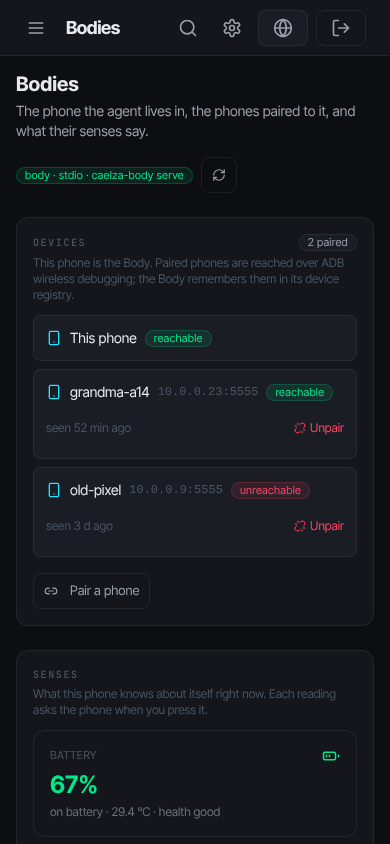
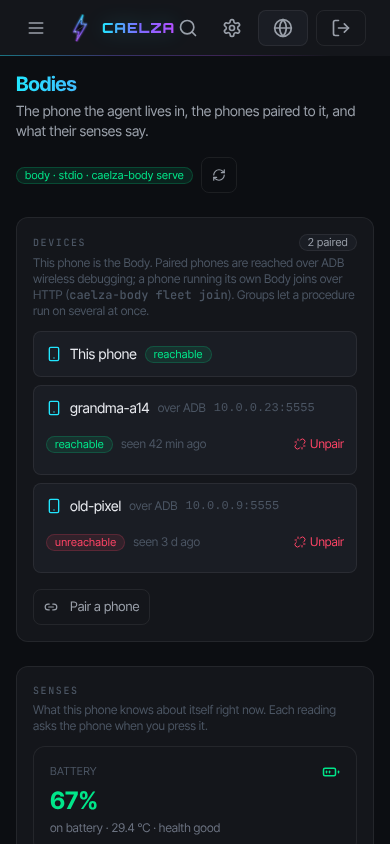
The brand pass: every dashboard page wears the mark, the gradient and the space
The theme map gave the dashboard our palette, but black and cyan read as
any dark console (the screenshots the owner looked at "still looked like
zeroclaw's"). This makes every page unmistakably ours without touching the
pages' markup.

CSS in the overlay's caelza-brand.css: Space with the two nebula glows
behind every page (`.cz-space`; the glow colours are theme variables that
runtime/lib/dashboard_theme.py sets for caelza-dark and caelza-light, so
another theme from the settings page gets a plain base), page titles in the
mark gradient (`.cz-page-title`), the primary action filled cyan → violet
with the glow on hover (`.cz-btn-gradient`, and `.btn-electric` so the
pairing screen and the error boundary follow), cards with a hairline of
light on their top edge, a hairline of the mark gradient under the top bar.

Patch 0010 carries the four hunks CSS cannot: the top bar draws the mark
and the wordmark on every width (the page title beside them on a desktop,
the page's own header carries it on a phone), the layout root takes
`.cz-space`, PageHeader's title takes `.cz-page-title`, Button's primary
variant takes `.cz-btn-gradient`.

The reference screens in docs/design/screens/390 are retaken through
runtime/tools/phone-shots against a gateway serving the rebuilt dashboard:
no sideways scroll, the same offender and small-target counts as before.
tests/test_brand_pass.py pins the patch's files and hunks, the CSS hooks,
[…]

diff --git a/runtime/overlay/web/src/caelza-brand.css b/runtime/overlay/web/src/caelza-brand.css
@@ -109,6 +109,67 @@
   }
 }
 
+/* ---- The brand pass (vision M4 phase 4b): every dashboard page ---------------
+   The theme map already gives the dashboard our palette; these make it
+   unmistakably ours without touching the pages' markup: Space with the nebula
+   glows behind every page, the mark and the wordmark in the top bar, page
+   titles in the mark gradient, primary actions filled cyan → violet, cards
+   with a hairline of light on their top edge. The glow colours come from the
+   theme (runtime/lib/dashboard_theme.py sets --cz-glow-1/2 for caelza-dark and
+   caelza-light), so another theme from the settings page gets a plain base. */
+
+.cz-space {
+  background-color: var(--pc-bg-base);
+  background-image:
+    radial-gradient(60% 40% at 12% 0%, var(--cz-glow-1, transparent), transparent 70%),
+    radial-gradient(50% 35% at 90% 100%, var(--cz-glow-2, transparent), transparent 70%);
+  background-attachment: fixed;
+  background-repeat: no-repeat;
+}
+
+/* Page titles: the mark gradient as the fill, one glowing element per view. */
+.cz-page-title {
+  background: var(--cz-gradient-mark);
+  -webkit-background-clip: text;
+  background-clip: text;
+  color: transparent;
+  -webkit-text-fill-color: transparent;
+  letter-spacing: -0.02em;
+}
+.cz-page-title::selection {
+  -webkit-text-fill-color: var(--pc-text-primary);
+}
+
+/* Primary actions: cyan → violet, a dark face, the glow on hover. */
+.cz-btn-gradient,
+main .btn-electric,
+.btn-electric {
+  background: linear-gradient(90deg, var(--pc-accent) 0%, #7b6bff 100%);
+  color: #050310;
+  border-color: transparent;
+}
+.cz-btn-gradient:hover:not(:disabled),
+.btn-electric:hover:not(:disabled) {
+  filter: brightness(1.08);
+  box-shadow: 0 6px 22px rgba(var(--pc-accent-rgb), 0.28);
+}
+.cz-btn-gradient:active:not(:disabled) {
+  filter: brightness(0.96);
+}
+
+/* Cards: a hairline of light on the top edge and a soft drop, so the
+   surfaces sit on Space instead of merging with it. */
+main .card,
+main .surface-panel {
+  box-shadow: inset 0 1px 0 rgba(255, 255, 255, 0.05), 0 10px 30px rgba(0, 0, 0, 0.25);
+}
+
+/* The top bar: a hairline of the mark gradient under it. */
+.cz-topbar {
+  border-bottom: 1px solid transparent;
+  border-image: linear-gradient(90deg, rgba(34, 230, 255, 0.45), rgba(123, 107, 255, 0.35), rgba(180, 79, 255, 0.25), transparent 85%) 1;
+}
+
 /* ---- The simplified setup (/setup, vision M4 phase 4a) ----------------------
    Cael's screens in our colours: the space backdrop with the nebula glows, the
    title in the mark's gradient, Cael's bubble, 52 px buttons, the scroll

diff --git a/tests/test_brand_pass.py b/tests/test_brand_pass.py
@@ -1,0 +1,73 @@
+"""The brand pass over every dashboard page (vision M4 phase 4b).
+
+The theme map gives the dashboard our palette; the pass makes it ours: the
+mark and the wordmark in the top bar, page titles in the mark gradient, the
+primary action filled cyan → violet, Space with the nebula glows behind every
+page. Most of it is CSS in the overlay's brand stylesheet; patch 0010 carries
+the four hunks CSS cannot (the top bar, the layout root, PageHeader, Button).
+"""
+from __future__ import annotations
+
+import json
+import re
+import sys
+import tomllib
+from pathlib import Path
+
+REPO_ROOT = Path(__file__).resolve().parents[1]
+PATCH = (REPO_ROOT / "runtime" / "patches" / "0010-brand-pass.patch").read_text()
+BRAND_CSS = (REPO_ROOT / "runtime" / "overlay" / "web" / "src" / "caelza-brand.css").read_text()
+MANIFEST = tomllib.loads((REPO_ROOT / "bundle" / "manifest.toml").read_text())
+TOKENS = json.loads((REPO_ROOT / "brand" / "tokens.json").read_text())
+
+sys.path.insert(0, str(REPO_ROOT / "runtime" / "lib"))
+import dashboard_theme  # noqa: E402
+
+
+def test_patch_touches_only_the_files_it_claims():
+    touched = sorted({line.split()[1][2:] for line in PATCH.splitlines() if line.startswith("+++ b/")})
+    assert touched == [
+        "web/src/components/layout/Header.tsx",
+        "web/src/components/layout/Layout.tsx",
+        "web/src/components/ui/Button.tsx",
+        "web/src/components/ui/PageHeader.tsx",
+    ]
+
+
+def test_the_top_bar_wears_the_mark_and_the_wordmark_on_every_width():
+    assert "+import { Mark, Wordmark } from '@/components/brand/CaelzaLockup';" in PATCH
+    assert "+            <Mark src={`${basePath}/_app/logo.png`} size={28} />" in PATCH
+    assert "+            <Wordmark size=\"sm\" />" in PATCH
+    # The page title keeps its place on a desktop; the page's own header carries it on a phone.
+    assert '+          <h1 className="hidden md:block' in PATCH
+    assert '-          <h1 className="h-9 leading-9 text-lg font-semibold tracking-tight truncate min-w-0" style={{ color: \'var(--pc-text-primary)\' }}>{pageTitle}</h1>' in PATCH
+    assert '+      <header className="cz-topbar' in PATCH and ".cz-topbar {" in BRAND_CSS
+
+
+def test_titles_buttons_and_the_backdrop_take_the_brand():
+    assert '+        <h1 className="cz-page-title' in PATCH and ".cz-page-title {" in BRAND_CSS
+    assert "+    'cz-btn-gradient bg-pc-accent border-transparent" in PATCH and ".cz-btn-gradient," in BRAND_CSS
+    assert '+    <div className="cz-space min-h-screen bg-pc-base text-pc-text">' in PATCH and ".cz-space {" in BRAND_CSS
+    # The gradient is the mark's (cyan → violet → purple), not the parent's.
+    assert "background: var(--cz-gradient-mark);" in BRAND_CSS.split(".cz-page-title {")[1].split("}")[0]
+    # The glows fall back to nothing, so a theme without them gets a plain base.
+    assert "var(--cz-glow-1, transparent)" in BRAND_CSS and "var(--cz-glow-2, transparent)" in BRAND_CSS
+    # The pairing screen's and the error boundary's primary button follow.
+    assert re.search(r"^\.btn-electric \{", BRAND_CSS, re.M)
+
+
+def test_the_theme_carries_the_glow_colours():
+    dark, light = dashboard_theme.theme_entries(TOKENS)
+    purple = TOKENS["color"]["purple"]
+    r, g, b = int(purple[1:3], 16), int(purple[3:5], 16), int(purple[5:7], 16)
+    assert dark["vars"]["--cz-glow-1"] == f"rgba({r},{g},{b},0.22)"
+    assert dark["vars"]["--cz-glow-2"].startswith("rgba(34,230,255,")
+    # Faint on the light base: a tint, not a glow.
+    assert float(light["vars"]["--cz-glow-1"].rsplit(",", 1)[1].rstrip(")")) < 0.1
+    assert float(light["vars"]["--cz-glow-2"].rsplit(",", 1)[1].rstrip(")")) < 0.1
+
+
+def test_manifest_points_at_the_pass():
+    rt = MANIFEST["components"]["runtime"]
+    assert rt["brand_pass_patch"] == "runtime/patches/0010-brand-pass.patch"
+    assert (REPO_ROOT / rt["brand_pass_patch"]).is_file()

diff --git a/runtime/lib/dashboard_theme.py b/runtime/lib/dashboard_theme.py
@@ -62,6 +62,10 @@ def theme_entries(tokens: dict) -> list[dict]:
             "--pc-accent-dim": _rgba(c["primary"], 0.3),
             "--pc-accent-glow": _rgba(c["primary"], 0.1),
             "--pc-accent-rgb": c["primary_rgb"].replace(" ", ""),
+            # The nebula glows behind every page (.cz-space in caelza-brand.css):
+            # purple at the top left, cyan at the bottom right, as the hero has them.
+            "--cz-glow-1": _rgba(c["purple"], 0.22),
+            "--cz-glow-2": _rgba(c["primary"], 0.14),
         },
     }
     lt = {
@@ -94,6 +98,9 @@ def theme_entries(tokens: dict) -> list[dict]:
             "--pc-accent-dim": _rgba(light["primary"], 0.3),
             "--pc-accent-glow": _rgba(light["primary"], 0.1),
             "--pc-accent-rgb": light["primary_rgb"].replace(" ", ""),
+            # Faint on the light base: the tint, not the glow.
+            "--cz-glow-1": _rgba(c["purple"], 0.07),
+            "--cz-glow-2": _rgba(light["primary"], 0.06),
         },
     }
     return [dark, lt]

diff --git a/tests/test_forge.py b/tests/test_forge.py
@@ -188,7 +188,10 @@ def test_runtime_update_needs_a_reason_starts_detached_and_refuses_a_second(body
     monkeypatch.setattr(rt.subprocess, "Popen", fake_popen)
     out = call("runtime_update", reason="v0.1.1 is out; the owner approved", tag="v0.1.1")
     assert out["started"] is True and out["pid"] == os.getpid() and out["tag"] == "v0.1.1" and out["current"] is None
-    argv, kw = spawned[0]
+    # The device tools' self-connect thread (device.py, `caelza-body-adb-self`) may
+    # spawn its `adb connect` through the same patched Popen first; the update's
+    # own spawn is the one naming the server module.
+    argv, kw = next((a, k) for a, k in spawned if "caelza_body.mcp_server" in a)
     assert argv[1:] == ["-m", "caelza_body.mcp_server", "runtime", "update", "--home", str(home), "--tag", "v0.1.1"]
     assert kw["start_new_session"] is True and kw["stdin"] is subprocess.DEVNULL and kw["cwd"] == str(home)
     assert (home / rt.UPDATE_PID).read_text().strip() == str(os.getpid())

diff --git a/docs/design/caelza-vision.md b/docs/design/caelza-vision.md
@@ -409,7 +409,7 @@ Grouped, unranked inside each group. ★ = cheap given what we already have.
 | **M2 Body as MCP** | **Shipped:** `caelza-body` stdio MCP server (`caelza_body/mcp_server.py`) exposing the 35 sensors/device/shell/web/selfmod tools with the Airframe safety semantics, every tool classified read-only / destructive / neutral, images returned as MCP image content; the Runtime wiring + risk profile (`body/caelza-body.example.toml`). **Open:** the Python loop retired per phone once the Runtime runs there | M1 for the retirement |
 | **M3 Mind native** | **Shipped:** `XanimaMemory`, a native `Memory` backend in the Runtime over `xanima-server`'s MCP Streamable HTTP (`runtime/overlay/.../xanima.rs` + `runtime/patches/0001-xanima-memory-backend.patch`: `[memory] backend = "xanima"`, `[storage.xanima.<alias>]` with one token per agent, dashboard picker entry). Per-turn recall → `brain_query`, auto-saved turns → `brain_episode_append`, facts → `brain_write`, forget → `brain_forget`; unit-tested against a canned service and smoke-tested against a live `xanima-server` 0.5.0. Noise filtering is the service's own (`brain_episode_append` drops heartbeat/cron/`NO_REPLY` turns). **Shipped (the standing context and provisioning):** the brain's `brain_turn_context` (identity, active goals, the goals note, the current task) opens the `[Memory context]` block on every turn through a `turn_context_for_agent` hook on the `Memory` trait that the wrappers forward (`runtime/patches/0008-mind-turn-context.patch`), re-rendered each turn and never stored in history so it outlives compaction, its notes acked on the next assistant auto-save; an agent with no token file gets a brain and a token through `brain_provision_agent` with a provision-scoped token (`provision_token_file`), so a new `[agents.<alias>]` needs no manual mint. **Open:** the last-24h digest; `xanima-server` still runs from a checkout (not on npm). | xanima rename shipped |
 | **M1.5 Free local default** | **Shipped:** `scripts/model-setup.sh` + `scripts/model_ladder.py` (RAM × platform → agent and guide tiers, tested): installs llama.cpp (Termux package) or expects Ollama, fetches the DeepSeek R1 GGUFs against pinned sha256s or pulls the Ollama tags, writes the `llamacpp.*` / `ollama.*` provider aliases, points `agents.main` at the local model when it has none, creates Cael (`agents.cael`, profile `guide`: `readonly` + `deny_all_tools`) with `guide/cael.system.md` as his SOUL.md; `runtime/caelza.local-model.example.toml` is the readable wiring. **Shipped (the two doors):** the dashboard's quickstart opens on the two doors (`runtime/overlay/web/src/pages/quickstart/Doors.tsx` + `runtime/patches/0007-quickstart-doors.patch`): free and local stages the ladder's DeepSeek R1 for this device as `<runner>.local` with Cael's honest line, bring your own key is upstream's provider form; the ladder in the overlay is pinned to `scripts/model_ladder.py`. **Shipped (Cael's corpus):** `scripts/cael_corpus.py` chunks the owner-facing pages of the Runtime's book, the README, the Mind and Body READMEs and `guide/FAQ.md` into `guide/corpus.jsonl` (kept current by CI against the staged book) and loads them into Cael's memory through the gateway's `/api/memory`, where the Runtime's per-turn recall finds them; the app loads its bundled copy itself. `knowledge_bundles` stays schema-only at the pin, so memory is the corpus path. **M1.5 is complete.** | M1 for the phone run |
-| **M4 UI phases 1–2** | **Phase 1 + PWA shipped:** the brand faces self-hosted (Inter Tight default, Orbitron wordmark), the lockup in the drawer and on the pairing screen, the parent attribution in the footers, labelled accents; `manifest.webmanifest` + icons + `sw.js` (offline app shell, API never cached) with the gateway's `Service-Worker-Allowed` for the SPA root. **Phase 2a shipped:** the Memory page (`/memory`, in the sidebar's Home group): brains, beliefs, sleep and attention from `brain_stats` / `brain_status`, recall by query with forget, the review queue with accept / reject; the gateway's `/api/mind/*` proxies the brain service with the host-side tokens. **Phase 2b shipped:** the Bodies page (`/bodies`, beside Memory): this phone and the paired phones from `device_list`, battery / whereabouts / notifications from the sensors tools, screen and camera captures as images, the package list, pair and unpair over ADB wireless debugging; the gateway's `/api/bodies/*` keeps one connection to the Body's MCP server (`caelza-body serve`) and makes the tool calls. **Phase 3a shipped:** Home (`/`) as status before chat: Runtime, Mind and Body tiles, "waiting on you" (procedure runs at a gate with approve / deny, memory changes awaiting review), "since you were away" (the Mind's attention, last sleep, open commitments and questions through `/api/mind/digest`; runs and sessions of the last day); the upstream dashboard at `/dashboard` with the old `/?tab=` links forwarded. Procedures (`/procedures`) fronting the SOP engine: waiting, running with stop, the library, finished this week. **Phase 3b shipped:** the phone-first pass, measured at 390 × 844 over every route with `runtime/tools/phone-shots` (sideways scroll, elements past the edge, controls under 32 px): phone rules in the brand stylesheet, patch 0006 for what CSS cannot reach, reference screens in `docs/design/screens/390/`. **Phase 4a shipped:** the simplified setup (`/setup`, `runtime/overlay/web/src/pages/setup/` + patch 0009): Cael's screens in the brand's own colours, one decision each, outside the dashboard chrome. The two doors first; behind "bring your own key" a scroll wheel of the providers most people bring (`bundle/models.json`, the curated catalog `scripts/model_catalog.py check --online` verifies against models.dev; "more" adds every key provider the Runtime lists), a wheel of that provider's models with Cael's picks pinned on top (best, fast and cheap, strongest, free) above the Runtime's live catalog, one box for the key with where to get one, then "Try it"; behind "free and local" the ladder's pick for this device. Risk, runtime, memory and the agent's name take defaults and the whole thing goes through upstream's `/api/quickstart/apply`, so the result is what the full wizard writes; a fresh install lands on `/setup`, the wizard stays at `/quickstart` as "Advanced setup", and "Set up" heads the sidebar's Configure group. The Android app's first run spins the same catalog with two native wheels (`firstrun/ModelCatalog.kt`). **Open:** phase 4b, the brand pass over every dashboard page. | M2, M3 |
+| **M4 UI phases 1–2** | **Phase 1 + PWA shipped:** the brand faces self-hosted (Inter Tight default, Orbitron wordmark), the lockup in the drawer and on the pairing screen, the parent attribution in the footers, labelled accents; `manifest.webmanifest` + icons + `sw.js` (offline app shell, API never cached) with the gateway's `Service-Worker-Allowed` for the SPA root. **Phase 2a shipped:** the Memory page (`/memory`, in the sidebar's Home group): brains, beliefs, sleep and attention from `brain_stats` / `brain_status`, recall by query with forget, the review queue with accept / reject; the gateway's `/api/mind/*` proxies the brain service with the host-side tokens. **Phase 2b shipped:** the Bodies page (`/bodies`, beside Memory): this phone and the paired phones from `device_list`, battery / whereabouts / notifications from the sensors tools, screen and camera captures as images, the package list, pair and unpair over ADB wireless debugging; the gateway's `/api/bodies/*` keeps one connection to the Body's MCP server (`caelza-body serve`) and makes the tool calls. **Phase 3a shipped:** Home (`/`) as status before chat: Runtime, Mind and Body tiles, "waiting on you" (procedure runs at a gate with approve / deny, memory changes awaiting review), "since you were away" (the Mind's attention, last sleep, open commitments and questions through `/api/mind/digest`; runs and sessions of the last day); the upstream dashboard at `/dashboard` with the old `/?tab=` links forwarded. Procedures (`/procedures`) fronting the SOP engine: waiting, running with stop, the library, finished this week. **Phase 3b shipped:** the phone-first pass, measured at 390 × 844 over every route with `runtime/tools/phone-shots` (sideways scroll, elements past the edge, controls under 32 px): phone rules in the brand stylesheet, patch 0006 for what CSS cannot reach, reference screens in `docs/design/screens/390/`. **Phase 4a shipped:** the simplified setup (`/setup`, `runtime/overlay/web/src/pages/setup/` + patch 0009): Cael's screens in the brand's own colours, one decision each, outside the dashboard chrome. The two doors first; behind "bring your own key" a scroll wheel of the providers most people bring (`bundle/models.json`, the curated catalog `scripts/model_catalog.py check --online` verifies against models.dev; "more" adds every key provider the Runtime lists), a wheel of that provider's models with Cael's picks pinned on top (best, fast and cheap, strongest, free) above the Runtime's live catalog, one box for the key with where to get one, then "Try it"; behind "free and local" the ladder's pick for this device. Risk, runtime, memory and the agent's name take defaults and the whole thing goes through upstream's `/api/quickstart/apply`, so the result is what the full wizard writes; a fresh install lands on `/setup`, the wizard stays at `/quickstart` as "Advanced setup", and "Set up" heads the sidebar's Configure group. The Android app's first run spins the same catalog with two native wheels (`firstrun/ModelCatalog.kt`). **Phase 4b shipped:** the brand pass over every dashboard page (`caelza-brand.css` + patch 0010): the mark and the wordmark in the top bar on every width under a hairline of the mark gradient, page titles in the mark gradient, the primary action filled cyan → violet (the pairing screen's too), Space with the nebula glows behind every page (theme variables, so another theme gets a plain base), cards with a hairline of light on their top edge; the reference screens in `docs/design/screens/390/` retaken. **M4 is complete.** | M2, M3 |
 | **M5 SOP playbooks** | **Shipped:** the four playbooks as SOPs in `body/sops/` (`phone-debloat`, `phone-malware-removal`, `phone-new-setup`, `phone-diagnostics`): manual trigger, owned by `agents.main`, `auto` mode with one `requires_confirmation` gate per procedure right before the step that changes the phone (diagnostics has none); the deterministic half as four read-only Body tools (`device_debloat_plan` over a curated list seeded from the REVVL 7 log, `device_suspects` with risk flags, `device_foreground`, `device_health` with the setup checklist); `caelza-body playbooks --install` and `install.sh` put them in `~/.caelza/shared/sops`, `[sop] sops_dir` in the phone config loads them, the Procedures library gives each a **Run** that asks which phone; validated by the Runtime's own `caelza sop validate`. Evals: `tests/test_playbook_evals.py` runs the classifier over the 297-package REVVL snapshot and the parsers over recorded output, and against a live emulator or phone with `CAELZA_EVAL_SERIAL`. **Open:** a recorded run of each playbook end to end on the REVVL (the first device run, M1), the eval crate (`caelza-eval`) replaying those runs. | M2 |
 | **M6 Fleet + Forge** | **Shipped (fleet):** the hub + bodies shape. Each phone serves its Body over Streamable HTTP behind a bearer token (`caelza-body serve --http`, loopback unless `--host` names the Tailscale address, `/health` open, `/mcp` locked, DNS-rebinding checks); the hub's Body joins phones as devices (`device_join` / `caelza-body fleet join`, the token in a 0600 file, never in the registry) and forwards every tool call naming one, sensors included, images included, with an audit line per destructive call; `device_list` shows kinds and groups, `device_pair` / `device_tag` set groups, the Procedures Run dialog fans a playbook out over a group with one gate per phone; `runtime/caelza.hub.example.toml` is the hub's Runtime config. Tested end to end against a real `--http` Body with the recorded phone (`tests/test_fleet.py`). **Shipped (Runtime guard):** `caelza_body/runtime_guard.py` (stdlib, immutable like the supervisor): `caelza-body runtime update` finds the release for this target, downloads and verifies the archive against its `.sha256`, unpacks into `~/.caelza-body/runtime/<version>` (refusing escaping members), probes the binary in the work dir on a copy of the config (`--version` must match, `gateway start` must serve `/health` on a port nothing else answers), snapshots `~/.caelza` (config, agents, shared), moves `current` and leaves `last-good` on the version that was running, asks the supervisor to restart; a binary that does not hold is never installed. The supervisor runs `caelza daemon` from `current` beside the agent, restarts on request (which also revives a halted Runtime), promotes the new version to `last-good` once it has held for ten minutes, rolls back to `last-good` on a crash loop, halts without a rollback when another Runtime already holds the gateway port, and halts when last-good loops. `runtime status / rollback / link` by hand; `tests/test_runtime_guard.py` drives it with a fake release and a fake gateway, and the real binary when `CAELZA_BIN` is set. **Shipped (Forge):** the git channel as `channels.git.forge` (a GitHub App on the repo; `runtime/caelza.forge.example.toml` with the events table and the gates), every release built with `channel-git`, `forge-propose` (frame, read `main`, draft; after the gate a `forge/<topic>` branch and a draft PR through `git_forge`) and `forge-release` (on `release.published`, or a tag by hand: the owner approves, `body__runtime_update` hands the tag to the guard), the Body's `runtime` tool group (`runtime_status`, `runtime_update`); validated by the Runtime's `sop validate` with the channel configured; `docs/forge.md`. **M6 is complete.** **Open:** the first live forge PR from a phone (the App installed on the repo, a `v*` release with the Android leg). | M2–M5 |
 | **M7 Caelza Android app** | **Shipped (M7a, the shell):** `android/`, a Gradle/Kotlin app (`tech.enlightenedrepublic.caelza`, minSdk 28, targetSdk 28 on purpose: W^X, see `docs/design/android-app.md` §2) that installs the Runtime from this repo's releases through the guard's pipeline in Kotlin (`ReleaseInstaller`: the `aarch64-linux-android` archive, its `.sha256`, unpack, probe on a copy of the config, install, `current` / `last-good` as the Body's guard keeps them), runs `caelza daemon` as a foreground service with the supervisor's ladder (`RuntimeService`: restart, roll back to last-good on a crash loop, halt when last-good loops or another Runtime holds the port), starts it after a reboot, shows the dashboard in a WebView the moment `/health` answers, and reads where Shizuku stands; JVM unit tests over a fake release; CI builds the APK (`.github/workflows/android.yml`). **Shipped (M7b, the Body):** the `device` group in Kotlin over Shizuku (`android/.../body/`), served to the Runtime as the Body MCP server on `127.0.0.1:42618/mcp` the way `caelza-body serve --http` serves it (the same token file, audit log and package snapshots under `files/.caelza-body`), the Runtime's config wired on first start (`body` http server, bundle, `[agents.main]`, the `phone` risk profile), the playbook parsers and tables ported with their recordings replayed in Gradle, the contract pinned from both sides against `caelza-body list-tools` (`scripts/android_body_fixtures.py`); Shizuku missing is a degraded Body (`needs Shizuku`), not a crash. **Shipped (M7c, the sensors):** the nine `sensors_*` tools through the Android APIs (`AndroidSensors`: `BatteryManager`, a `NotificationListenerService`, `ClipboardManager`, `LocationManager` + `WifiManager` + the keyless IP lookup, camera2 with a settling preview, `MediaRecorder`, `TextToSpeech`, the torch) answering in `termux-api`'s shapes so the tools, the playbooks and the Bodies page see no difference; a permission not granted is `needs the camera permission: Settings › …`, and the strip's third line asks for what is missing. **Shipped (M7d, the first run and the local model):** Cael leads the first run (`firstrun/`): the Runtime installed, a brain through the two doors of §3.4 (free and local: llama.cpp's own prebuilt Android build pinned by tag and sha256 plus the ladder's GGUF for this phone's RAM, verified and resumable, `llama-server` on `127.0.0.1:8080` run beside the Runtime by the service; bring your own key: Anthropic, OpenAI or OpenRouter under `<provider>.default`), Shizuku, the permissions with their reasons, the battery exemption, a word about hubs, start; both doors write the config through the Runtime's own `caelza config set` and create Cael as `agents.cael` with his `SOUL.md`. **Shipped (the launcher icon):** the brand mark as an adaptive icon, rendered by `brand/make_assets.py --android` from `tokens.json` (the mark inside the safe circle over the nebula backdrop; the silhouette as the monochrome layer for themed icons and the notification's status-bar icon) and kept in step by CI. **Shipped (the release's Android leg):** a `v*` tag builds the app as well and attaches `caelza-app-<version>.apk` with its `.sha256` to the release, versioned from the tag (`scripts/app_version.py`: `v0.1.0` → `0.1.0` / versionCode 1000, `BUILD_ID` in the bug report), signed with the release keystore when the repo's secrets hold one and `-debug-signed` otherwise; the logs screen (`logs/LogsActivity.kt`) shows every log the app writes with secrets blanked and shares a bug report. **Open:** the first real `llama-server` start on the REVVL (memory on a 3.5 GB phone); the accessibility service and MediaProjection for this phone's screen without Shizuku; the fleet tools in the app; the binder path instead of shell commands; the W^X decision measured on the REVVL. | M2, M1.5, M4 |

diff --git a/runtime/README.md b/runtime/README.md
@@ -32,7 +32,9 @@ runtime/
 │                      (a turn_context_for_agent hook on the Memory trait, the wrappers forwarding it, the memory
 │                      preamble opening with it, the xanima storage keys for it and for provisioning); 0009 the
 │                      simplified setup (/setup routed outside the chrome, fresh installs land on it, "Set up" in the
-│                      sidebar, the strings, JSON imports for the catalog, the logic test in the web test list)
+│                      sidebar, the strings, JSON imports for the catalog, the logic test in the web test list); 0010
+│                      the brand pass (the mark and the wordmark in the top bar, page titles in the mark gradient, the
+│                      primary button cyan → violet, Space with the glows behind every page)
 ├── tools/phone-shots/ Playwright over every dashboard route at 390 × 844: screenshots, sideways scroll, elements past
 │                      the edge, controls under 32 px; a mock proxy for the Mind and Body routes
 ├── lib/rename.pl      the replacement engine

diff --git a/brand/BRAND.md b/brand/BRAND.md
@@ -134,9 +134,12 @@ The one surface that wears more is the simplified setup (`/setup` on the
 dashboard, the first run in the app): Space as the backdrop with the nebula
 glows, the title in the mark gradient, the screen's one primary button filled
 cyan → violet, Cael's bubble on Bg 3 with a violet rule. It is the first thing a
-new owner sees, so it carries the brand; the pages behind it go back to the
-rules above. The Republic gradient still appears only in the parent's own
-moments.
+new owner sees, so it carries the brand. The pages behind it wear less, and
+the same things on every one of them: the mark and the wordmark in the top
+bar under a hairline of the mark gradient, the page title in the mark
+gradient (the one glowing element), the primary button filled cyan → violet,
+Space with the two nebula glows behind the cards. The Republic gradient still
+appears only in the parent's own moments.
 
 ## Type
 

diff --git a/docs/design/screens/README.md b/docs/design/screens/README.md
@@ -7,6 +7,10 @@ compares against; regenerate them with the same tool when a page changes.
 
 ## `390/` — phone width, 390 × 844, 1× scale, dark
 
+The set was retaken after the brand pass (M4 phase 4b): the mark and the
+wordmark in the top bar, page titles in the mark gradient, the primary button
+cyan → violet, Space with the nebula glows behind every page.
+
 | file | what it shows |
 |---|---|
 | `home.png` | Home: the Runtime / Mind / Body tiles, waiting on you, the digest |
